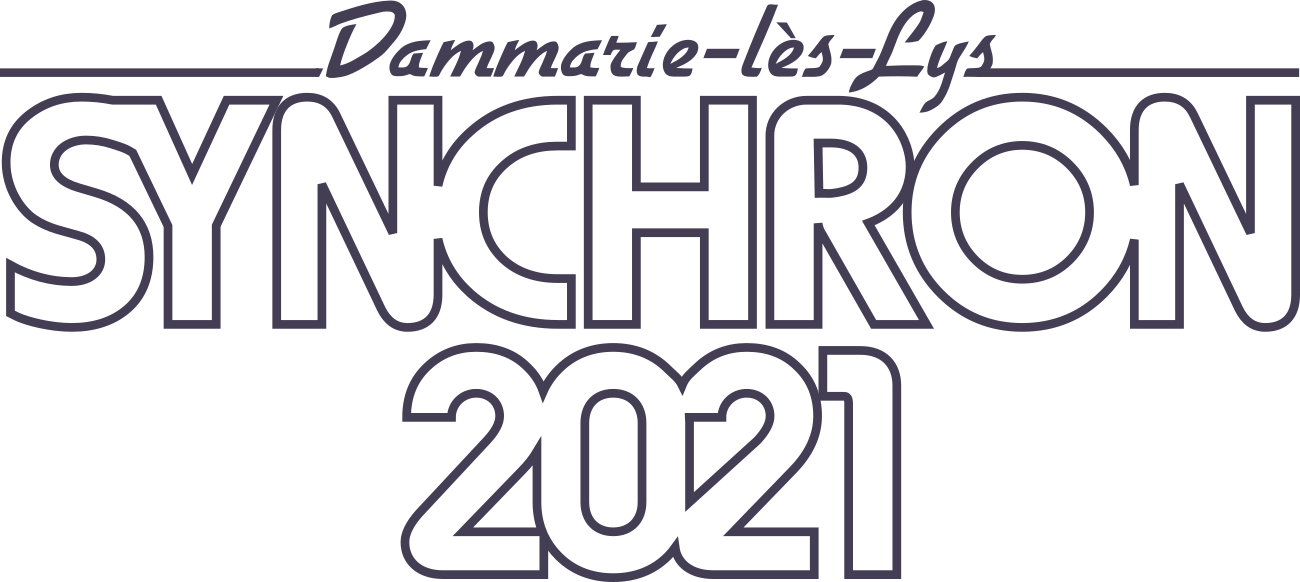
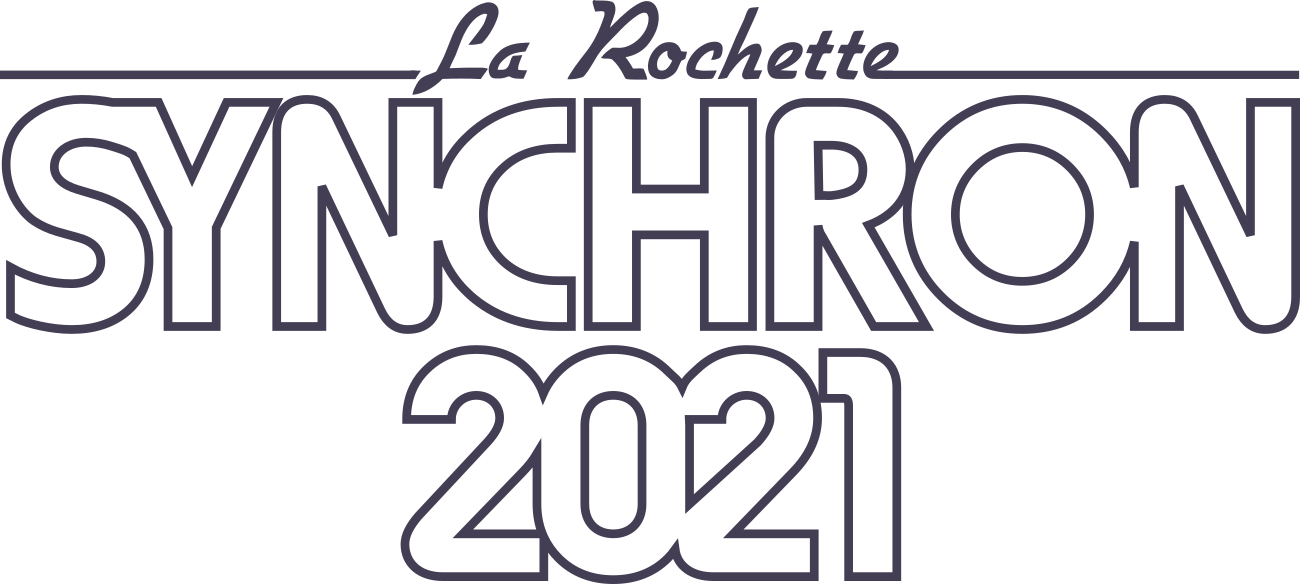
La Rochette!

diff --git a/index.html b/index.html
@@ -1,8 +1,8 @@
 <!DOCTYPE html>
 <html lang="en"><head><meta charset="utf-8"/><meta name="viewport" content="width=device-width, initial-scale=1, shrink-to-fit=no"/><meta http-equiv="x-ua-compatible" content="ie=edge"/><link href="css/synchron.css" rel="stylesheet"/><title>Synchron 2021</title><meta name="description" content="28th International Open Workshop on Synchronous Programming,
-                   Dammarie-lès-Lys, 22-26 November 2021"/><link href="apple-touch-icon.png" type="image/png" rel="apple-touch-icon" sizes="180x180"/><link href="favicon-32x32.png" type="image/png" rel="icon" sizes="32x32"/><link href="favicon-16x16.png" type="image/png" rel="icon" sizes="16x16"/><link href="site.webmanifest" rel="manifest"/><meta name="msapplication-TileColor" content="#ffffff"/><meta name="msapplication-TileImage" content="/icons/ms-icon-144x144.png"/><meta name="theme-color" content="#ffffff"/></head><body><div class="synchron-all"><div class="navbar navbar-expand-md navbar-light synchron-navbar" id="synchron-navbar" role="navigation"><div class="container-fluid"><a class="navbar-brand" href="index.html">Synchron 2021</a><button class="navbar-toggler" type="button" data-bs-toggle="collapse" data-bs-target="#collapsingNavbar" aria-controls="collapsingNavbar" aria-expanded="false" aria-label="Toggle navigation"><span class="navbar-toggler-icon"></span></button><div class="collapse navbar-collapse" id="collapsingNavbar"><ul class="navbar-nav mr-auto"><li class="nav-item"><a class="nav-link" href="venue.html">Venue</a></li><li class="nav-item"><a class="nav-link" href="history.html">History</a></li></ul></div></div></div><div class="synchron-content synchron-gradient"><div class="synchron-logo-outer"><div class="synchron-logo"><div class="d-none d-md-block"><img class="img-fluid synchron-logo" alt="Synchron 2021 logo" src="img/synchron2021.png"/></div><div class="d-md-none"><img class="img-fluid synchron-logo" alt="Synchron 2021 narrow logo" src="img/synchron2021-narrow.png"/></div><div class="synchron-under-logo">28th International Open Workshop on Synchronous Programming,
-                   Dammarie-lès-Lys, 22-26 November 2021</div></div></div><div class="row below-logo"><div class="col-md-7 col-xl-7 overview"><h2>28th International Open Workshop on Synchronous Programming</h2>
-<p><em>22–26 November 2021, Dammarie-lès-Lys</em></p>
+                   La Rochette, 22-26 November 2021"/><link href="apple-touch-icon.png" type="image/png" rel="apple-touch-icon" sizes="180x180"/><link href="favicon-32x32.png" type="image/png" rel="icon" sizes="32x32"/><link href="favicon-16x16.png" type="image/png" rel="icon" sizes="16x16"/><link href="site.webmanifest" rel="manifest"/><meta name="msapplication-TileColor" content="#ffffff"/><meta name="msapplication-TileImage" content="/icons/ms-icon-144x144.png"/><meta name="theme-color" content="#ffffff"/></head><body><div class="synchron-all"><div class="navbar navbar-expand-md navbar-light synchron-navbar" id="synchron-navbar" role="navigation"><div class="container-fluid"><a class="navbar-brand" href="index.html">Synchron 2021</a><button class="navbar-toggler" type="button" data-bs-toggle="collapse" data-bs-target="#collapsingNavbar" aria-controls="collapsingNavbar" aria-expanded="false" aria-label="Toggle navigation"><span class="navbar-toggler-icon"></span></button><div class="collapse navbar-collapse" id="collapsingNavbar"><ul class="navbar-nav mr-auto"><li class="nav-item"><a class="nav-link" href="venue.html">Venue</a></li><li class="nav-item"><a class="nav-link" href="history.html">History</a></li></ul></div></div></div><div class="synchron-content synchron-gradient"><div class="synchron-logo-outer"><div class="synchron-logo"><div class="d-none d-md-block"><img class="img-fluid synchron-logo" alt="Synchron 2021 logo" src="img/synchron2021.png"/></div><div class="d-md-none"><img class="img-fluid synchron-logo" alt="Synchron 2021 narrow logo" src="img/synchron2021-narrow.png"/></div><div class="synchron-under-logo">28th International Open Workshop on Synchronous Programming,
+                   La Rochette, 22-26 November 2021</div></div></div><div class="row below-logo"><div class="col-md-7 col-xl-7 overview"><h2>28th International Open Workshop on Synchronous Programming</h2>
+<p><em>22–26 November 2021, La Rochette</em></p>
 <p>The Open Synchron Workshop is the annual meeting of experts and young
 researchers in the area of synchronous reactive programming.
 The main topics include executable specifications, program analysis,
@@ -21,6 +21,8 @@ researchers of differing seniority and expertise.
 Innovative contributions in blending reactive modeling and programming
 notions with neighboring research subjects and creative applicative domains,
 even at preliminary conceptual stages are always greatly appreciated.</p>
+<h2>Reservation</h2>
+<p>Information on reservations and tarifs will be posted in September.</p>
 </div><div class="col-md-5 col-xl-5"><h1>News</h1><dl class="velus-news"><dt><dt>2021-06-22</dt></dt><dd><dd><p>Creation of the Synchron 2021 website.</p>
 </dd></dd></dl><div class="under-news"><h1>Organizers</h1>
 <ul>

diff --git a/venue.html b/venue.html
@@ -1,7 +1,6 @@
 <!DOCTYPE html>
 <html lang="en"><head><meta charset="utf-8"/><meta name="viewport" content="width=device-width, initial-scale=1, shrink-to-fit=no"/><meta http-equiv="x-ua-compatible" content="ie=edge"/><link href="css/synchron.css" rel="stylesheet"/><title>Synchron 2021: Venue</title><meta name="description" content="Coming to Synchron 2021"/><link href="apple-touch-icon.png" type="image/png" rel="apple-touch-icon" sizes="180x180"/><link href="favicon-32x32.png" type="image/png" rel="icon" sizes="32x32"/><link href="favicon-16x16.png" type="image/png" rel="icon" sizes="16x16"/><link href="site.webmanifest" rel="manifest"/><meta name="msapplication-TileColor" content="#ffffff"/><meta name="msapplication-TileImage" content="/icons/ms-icon-144x144.png"/><meta name="theme-color" content="#ffffff"/></head><body><div class="synchron-all"><div class="navbar navbar-expand-md navbar-light synchron-navbar" id="synchron-navbar" role="navigation"><div class="container-fluid"><a class="navbar-brand" href="index.html">Synchron 2021</a><button class="navbar-toggler" type="button" data-bs-toggle="collapse" data-bs-target="#collapsingNavbar" aria-controls="collapsingNavbar" aria-expanded="false" aria-label="Toggle navigation"><span class="navbar-toggler-icon"></span></button><div class="collapse navbar-collapse" id="collapsingNavbar"><ul class="navbar-nav mr-auto"><li class="nav-item active"><a class="nav-link" href="venue.html">Venue</a></li><li class="nav-item"><a class="nav-link" href="history.html">History</a></li></ul></div></div></div><div class="synchron-content"><div class="synchron-single-border"></div><div class="synchron-single-content"><h1>Venue</h1>
-<p>Synchron 2021 will be held in
-<a href="https://en.wikipedia.org/wiki/Dammarie-l%C3%A8s-Lys">Dammarie-lès-Lys</a>, a
+<p>Synchron 2021 will be held in <a href="https://en.wikipedia.org/wiki/La_Rochette,_Seine-et-Marne">La Rochette</a>, a
 small town at the edge of the <a href="https://www.fontainebleau-tourisme.com/en/the-forest/">Fontainebleau
 forest</a> about 45km
 south east of the centre of Paris, at the <a href="https://www.ymca-rocheton.fr/index.php/home-page">Le Rocheton
@@ -20,12 +19,7 @@ with a Transilien ticket. The journey normally takes 35 minutes.</p>
 <p>Take a taxi to the intersection the Rue du Rocheton et the Rue du Stade.</p>
 </li>
 <li>
-<p><a href="https://www.transdev-idf.com/ligne-F/le-mee-sur-seine-melun/066-MELBUS">Bus Ligne F</a>
-from <em>Melun - Gare de Melun</em> (direction Rocheton Stade)
-to <em>La Rochette - Rocheton Stade</em>.
-The bus does <em>not</em> run on Sundays.</p>
+<p>More information will be available in September.</p>
 </li>
 </ul>
-<p>The ticket for the train from Paris includes bus travel within one hour of
-arrival. Otherwise, buses take the same &quot;Ticket t+&quot; as the Parisien metro.</p>
 </div><div class="synchron-single-border"></div></div><script src="js/bootstrap.min.js"></script></div></body></html>
